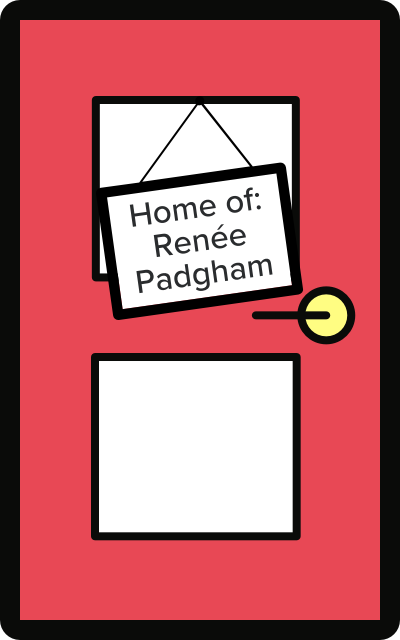
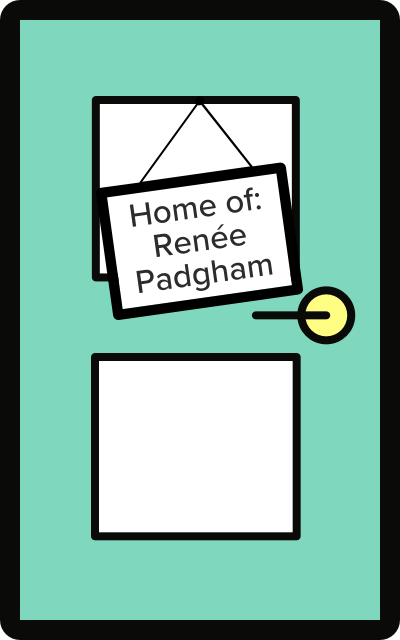
color changes

diff --git a/dist/styles/styles.css b/dist/styles/styles.css
@@ -1,1 +1,1 @@
-.name-sbmt,.name-sbmt:hover,.view-proj{color:#fff}.box,.contact-icons ul li,.rod{display:inline-block}.box:after,.rod:after,.rod:before{content:" "}.door-wrapper img,.header-img img{max-width:100%}.detail-nav ul li h4,.view-proj,.work-nav a{text-transform:uppercase}.detail-nav ul li a:hover,.name-input a,.name-sbmt:hover,.work-nav a:hover,a:hover{text-decoration:none}@font-face{font-family:ProximaNova;src:url(fonts/ProximaNova-Regular.otf)}@font-face{font-family:ProximaNova;font-weight:lighter;src:url(fonts/ProximaNova-Light.otf)}@font-face{font-family:ProximaNova;font-weight:700;src:url(fonts/ProximaNova-Semibold.otf)}@font-face{font-family:ProximaNova;font-weight:bolder;src:url(fonts/ProximaNova-Bold.otf)}@keyframes fadeIn{from{opacity:0}to{opacity:1}}@keyframes fadeOut{from{opacity:1}to{opacity:0}}@keyframes zoomIn{from{transform:scale(1)}to{transform:scale(1.5)}}@keyframes scale{0%{transform:scale(.7);opacity:0}100%{transform:scale(.9);opacity:1}}@keyframes open{0%{transform:scale(1) skew(0)}100%{transform:scale(.05,1) skew(0,-20deg)}}@keyframes pop{0%,65%{transform:rotate(-90deg)}100%{transform:rotate(0)}}.contact-wrapper{margin-top:100px}.address{width:25%;margin:auto;text-align:left}.contact-icons{margin-top:50px;text-align:center}.contact-icons ul{list-style:none;padding:0}.contact-icons ul li{width:30px;height:30px;background-color:#FF9B71;border-radius:50%;margin:0 6px}.contact-icons ul li a{font-size:14px;vertical-align:middle;text-align:center;color:#fff}.contact-icons ul li a i{margin-top:8px}.box{position:relative;background-color:#7FD8BE;width:200px;height:100px;-webkit-border-radius:10% 10% 0 0/100% 100% 0 0;-moz-border-radius:10%/100%;border-radius:10% 10% 0 0/100% 100% 0 0;-moz-border-radius-bottomleft:0;-webkit-background-clip:padding-box;-moz-border-radius-bottomright:0;-moz-background-clip:padding;background-clip:padding-box;margin-top:100px}.box:after,.rod,.rod:after,.rod:before{position:absolute}.box:after{height:90px;width:40px;background-color:#38b993;right:5px;top:5px;-webkit-border-radius:50% 50% 0 0/100% 100% 0 0;-moz-border-radius:50%/100%;border-radius:50% 50% 0 0/100% 100% 0 0;-moz-border-radius-bottomleft:0;-webkit-background-clip:padding-box;-moz-border-radius-bottomright:0;-moz-background-clip:padding;background-clip:padding-box}.rod{height:80px;width:5px;left:50%;bottom:50%;background-color:#E7E5E5;-webkit-transform-origin:bottom center;-moz-transform-origin:bottom center;-o-transform-origin:bottom center;-ms-transform-origin:bottom center;transform-origin:bottom center;-webkit-animation:pop 2s linear;-moz-animation:pop 2s linear;-o-animation:pop 2s linear;animation:pop 2s linear;-webkit-transition:all .2s ease;-moz-transition:all .2s ease;-o-transition:all .2s ease;transition:all .2s ease}.name-input,.name-sbmt{-webkit-animation-name:fadeIn;-moz-animation-name:fadeIn;-ms-animation-name:fadeIn;-o-animation-name:fadeIn;-moz-animation-fill-mode:forwards;-o-animation-fill-mode:forwards}.coming-soon .second img:hover,.coming-soon img,.coming-soon img:hover,.proj-wrapper img,.proj-wrapper img:hover{transition:all .2s ease-in-out}.rod:after{right:100%;top:2%;width:20px;height:16px;background:#FF9B71}.rod:before{bottom:0;border-radius:50%;width:15px;height:15px;background:#E7E5E5;-webkit-transform:translate(-50%,50%);-moz-transform:translate(-50%,50%);-o-transform:translate(-50%,50%);-ms-transform:translate(-50%,50%);transform:translate(-50%,50%)}.design-process{margin:0 auto 100px;font-size:16px;text-align:center}.design-process img{display:block;margin:100px auto 25px;height:100px}.design-process img:first-child{margin:75px auto 25px}.landing-wrapper{margin-top:20vh;text-align:center}.door-wrapper{width:150px;margin:0 auto 25px}.landing-text{display:inline-block;font-size:26px;font-family:proxima-nova,sans-serif;margin:20px auto 30px}.name-input{opacity:0;margin:auto;animation-name:fadeIn;-webkit-animation-duration:4s;-moz-animation-duration:4s;-ms-animation-duration:4s;-o-animation-duration:4s;animation-duration:4s;-webkit-animation-fill-mode:forwards;-ms-animation-fill-mode:forwards;animation-fill-mode:forwards;border-width:0 0 2px;font-size:22px;line-height:30px;text-align:center}.name-sbmt,.show{-ms-animation-fill-mode:forwards}.name-input a{margin:0 5px}.name-input:focus{border-width:0 0 2px;border-color:#E84855;outline:0}.name-sbmt{background-color:#E84855;margin-left:5px;padding:7px 10px;border-radius:2px;animation-name:fadeIn;-webkit-animation-duration:4s;-moz-animation-duration:4s;-ms-animation-duration:4s;-o-animation-duration:4s;animation-duration:4s;-webkit-animation-fill-mode:forwards;animation-fill-mode:forwards}.animatedDoor,.show{-o-animation-fill-mode:forwards}.landing-welcome{opacity:0;visibility:hidden}.show{visibility:visible;-webkit-animation-name:fadeIn;-moz-animation-name:fadeIn;-ms-animation-name:fadeIn;-o-animation-name:fadeIn;animation-name:fadeIn;-webkit-animation-duration:750ms;-moz-animation-duration:750ms;-ms-animation-duration:750ms;-o-animation-duration:750ms;animation-duration:750ms;-webkit-animation-fill-mode:forwards;-moz-animation-fill-mode:forwards;animation-fill-mode:forwards;-webkit-animation-delay:950ms;-moz-animation-delay:950ms;-ms-animation-delay:950ms;-o-animation-delay:950ms;animation-delay:950ms}.animatedDoor{transform-origin:0 50%;-webkit-animation-name:open;-moz-animation-name:open;-ms-animation-name:open;-o-animation-name:open;animation-name:open;-webkit-animation-duration:1.5s;-moz-animation-duration:1.5s;-ms-animation-duration:1.5s;-o-animation-duration:1.5s;animation-duration:1.5s;-webkit-animation-fill-mode:forwards;-moz-animation-fill-mode:forwards;-ms-animation-fill-mode:forwards;animation-fill-mode:forwards;-webkit-animation-delay:1s;-moz-animation-delay:1s;-ms-animation-delay:1s;-o-animation-delay:1s;animation-delay:1s;-webkit-animation-timing-function:ease-in-out;-moz-animation-timing-function:ease-in-out;-ms-animation-timing-function:ease-in-out;-o-animation-timing-function:ease-in-out;animation-timing-function:ease-in-out}.fadeInput,.scale{-webkit-animation-fill-mode:forwards;-moz-animation-fill-mode:forwards;-ms-animation-fill-mode:forwards;-o-animation-fill-mode:forwards}.scale{-webkit-animation-name:zoomIn;-moz-animation-name:zoomIn;-ms-animation-name:zoomIn;-o-animation-name:zoomIn;animation-name:zoomIn;-webkit-animation-duration:750ms;-moz-animation-duration:750ms;-ms-animation-duration:750ms;-o-animation-duration:750ms;animation-duration:750ms;animation-fill-mode:forwards;-webkit-animation-delay:.5s;-moz-animation-delay:.5s;-ms-animation-delay:.5s;-o-animation-delay:.5s;animation-delay:.5s;transform-origin:top}.fadeInput,.fadeOut{-ms-animation-duration:1s;-o-animation-duration:1s}.fadeInput{-webkit-animation-name:fadeOut;-moz-animation-name:fadeOut;-ms-animation-name:fadeOut;-o-animation-name:fadeOut;animation-name:fadeOut;-webkit-animation-duration:1s;-moz-animation-duration:1s;animation-duration:1s;animation-fill-mode:forwards}.fadeOut,.work-nav{-webkit-animation-fill-mode:forwards;-moz-animation-fill-mode:forwards;-ms-animation-fill-mode:forwards;-o-animation-fill-mode:forwards}.fadeOut{-webkit-animation-name:fadeOut;-moz-animation-name:fadeOut;-ms-animation-name:fadeOut;-o-animation-name:fadeOut;animation-name:fadeOut;-webkit-animation-duration:1s;-moz-animation-duration:1s;animation-duration:1s;animation-fill-mode:forwards;-webkit-animation-delay:2s;-moz-animation-delay:2s;-ms-animation-delay:2s;-o-animation-delay:2s;animation-delay:2s}.room-wrapper{text-align:center}.profile-wrap{margin-top:25px;margin-bottom:100px}.profile-wrap .polaroid{margin-top:50px}.profile-wrap .polaroid img{width:300px;box-shadow:0 0 5px #aaa;border-radius:5px}.profile-wrap .bio{margin-top:25px;text-align:center}.profile-wrap .bio img{display:block;margin:50px auto 25px;height:150px}.proj-wrapper{margin-top:75px;margin-bottom:75px}.proj-wrapper img{width:100%;transform:rotate(0);transform-origin:center top}.proj-wrapper img:hover{transform:rotate(5deg);transform-origin:center top}.proj-wrapper h3{font-size:32px;font-weight:lighter;margin:0}.proj-wrapper h4{letter-spacing:1px;margin:10px 0;font-size:16px;font-weight:300;line-height:20px}.proj-wrapper .brief-details{margin-top:19%}.view-proj{background:#6ed8b8;border:none;padding:12px 25px 10px;border-radius:5px;font-weight:500;font-size:14px;margin-top:25px}.coming-soon{text-align:center;margin-top:50px}.coming-soon img{width:100%;transform:rotate(0);transform-origin:center top}.coming-soon img:hover{transform:rotate(5deg);transform-origin:center top}.coming-soon .second img:hover{transform:rotate(-5deg);transform-origin:center top}.coming-soon h3{font-size:32px;font-weight:lighter;margin:0 auto 25px}.work.wrapper{transform-origin:50% 20%}.active{display:block}.inactive{display:none}.detail-brief-wrapper{text-align:center;margin-top:50px}.detail-brief-wrapper .detail-brief .detail-brief-img{margin-top:40px;margin-bottom:40px}.detail-brief-wrapper .detail-brief .detail-brief-img img{width:100%}.detail-brief-wrapper .detail-brief .detail-brief-text{color:#4A4A4A}.detail-brief-wrapper .detail-brief .detail-brief-text h3{font-size:35px;font-weight:lighter;margin:0}.detail-brief-wrapper .detail-brief .detail-brief-text h4{font-weight:lighter;letter-spacing:1px;margin:10px 0}.detail-nav{margin:50px 0}.detail-nav ul{list-style:none;text-align:center;padding:0}.detail-nav ul li:last-child{border-right:none}.detail-nav ul li{display:inline-block;border-right:1px solid #eee;padding:0 50px}.detail-nav ul li img{height:25px;display:block;margin:10px auto;opacity:.7}.detail-nav ul li h4{color:#817F75;opacity:.7;font-weight:300;font-size:14px;margin-top:15px;letter-spacing:.5px}.detail-nav ul li a:hover h4,.detail-nav ul li a:hover img{opacity:1}.detail-body{margin:75px auto 0}.detail-body div{padding:40px 0 0}.detail-body div h2{color:#48639C;font-weight:400;margin-bottom:30px}.detail-body div img{padding:0;box-shadow:0 0 10px #D4D4D4;text-align:center;display:block;margin-top:50px;margin-bottom:50px;max-width:100%}.detail-body div p{font-size:16px;padding-left:0;margin-top:-20px}.detail-body div b{font-size:1.1em}.detail-body div:first-child{padding-top:0}.detail-body div:last-child{padding-bottom:0;margin-bottom:0}.work-nav{background-color:#6ED8B8;padding:20px 0 15px;-webkit-animation-name:fadeIn;-moz-animation-name:fadeIn;-ms-animation-name:fadeIn;-o-animation-name:fadeIn;animation-name:fadeIn;-webkit-animation-duration:2s;-moz-animation-duration:2s;-ms-animation-duration:2s;-o-animation-duration:2s;animation-duration:2s;animation-fill-mode:forwards}.work-nav a{color:#fff;letter-spacing:1px}.work-nav a:hover{cursor:pointer;color:#fff;font-weight:300}.work-nav a:last-child{text-align:right;float:right}.header-img,.intro-text{text-align:center}@media only screen and (min-device-width:768px) and (max-device-width:1024px) and (-webkit-min-device-pixel-ratio:1){.detail-body div{padding:10px 0}.detail-nav{display:none}}@media only screen and (min-device-width:320px) and (max-device-width:480px) and (-webkit-min-device-pixel-ratio:2){.detail-body div{padding:10px 0}}.h1,.h2,.h3,.h4,.h5,.h6,body,h1,h2,h3,h4,h5,h6{font-family:proxima-nova,sans-serif;font-weight:lighter;color:#293132}a:hover,b{font-weight:500}.h4,h4,p{color:#717C89}a,a:hover{color:#ef6f6c}body{margin:0;padding:0}p{font-size:16px}b{color:#293132}a,button{cursor:pointer}.wf-loading body{display:none}.wf-active body{display:inline}.ng-cloak,.x-ng-cloak,[data-ng-cloak],[ng-cloak],[x-ng-cloak]{display:none!important}.navbar-default{background-color:#fff}.navbar-default a:hover{font-weight:300}.navbar-brand img{height:20px}.navbar{margin-bottom:0}.navbar-default .navbar-toggle{border:none}.navbar-default .navbar-toggle:focus,.navbar-default .navbar-toggle:hover{background:#fff}.wrapper{-webkit-animation-name:scale;-moz-animation-name:scale;-ms-animation-name:scale;-o-animation-name:scale;animation-name:scale;-webkit-animation-duration:1s;-moz-animation-duration:1s;-ms-animation-duration:1s;-o-animation-duration:1s;animation-duration:1s;-webkit-animation-fill-mode:forwards;-moz-animation-fill-mode:forwards;-ms-animation-fill-mode:forwards;-o-animation-fill-mode:forwards;animation-fill-mode:forwards;transform-origin:center}.intro-text{margin:50px auto 0}.intro-text p{font-size:18px}
+.name-sbmt,.name-sbmt:hover,.view-proj{color:#fff}.box,.contact-icons ul li,.rod{display:inline-block}.box:after,.rod:after,.rod:before{content:" "}.door-wrapper img,.header-img img{max-width:100%}.detail-nav ul li h4,.view-proj,.work-nav a{text-transform:uppercase}.detail-nav ul li a:hover,.name-input a,.name-sbmt:hover,.work-nav a:hover,a:hover{text-decoration:none}@font-face{font-family:ProximaNova;src:url(fonts/ProximaNova-Regular.otf)}@font-face{font-family:ProximaNova;font-weight:lighter;src:url(fonts/ProximaNova-Light.otf)}@font-face{font-family:ProximaNova;font-weight:700;src:url(fonts/ProximaNova-Semibold.otf)}@font-face{font-family:ProximaNova;font-weight:bolder;src:url(fonts/ProximaNova-Bold.otf)}@keyframes fadeIn{from{opacity:0}to{opacity:1}}@keyframes fadeOut{from{opacity:1}to{opacity:0}}@keyframes zoomIn{from{transform:scale(1)}to{transform:scale(1.5)}}@keyframes scale{0%{transform:scale(.7);opacity:0}100%{transform:scale(.9);opacity:1}}@keyframes open{0%{transform:scale(1) skew(0)}100%{transform:scale(.05,1) skew(0,-20deg)}}@keyframes pop{0%,65%{transform:rotate(-90deg)}100%{transform:rotate(0)}}.contact-wrapper{margin-top:100px}.address{width:25%;margin:auto;text-align:left}.contact-icons{margin-top:50px;text-align:center}.contact-icons ul{list-style:none;padding:0}.contact-icons ul li{width:30px;height:30px;background-color:#FF9B71;border-radius:50%;margin:0 6px}.contact-icons ul li a{font-size:14px;vertical-align:middle;text-align:center;color:#fff}.contact-icons ul li a i{margin-top:8px}.box{position:relative;background-color:#7FD8BE;width:200px;height:100px;-webkit-border-radius:10% 10% 0 0/100% 100% 0 0;-moz-border-radius:10%/100%;border-radius:10% 10% 0 0/100% 100% 0 0;-moz-border-radius-bottomleft:0;-webkit-background-clip:padding-box;-moz-border-radius-bottomright:0;-moz-background-clip:padding;background-clip:padding-box;margin-top:100px}.box:after,.rod,.rod:after,.rod:before{position:absolute}.box:after{height:90px;width:40px;background-color:#38b993;right:5px;top:5px;-webkit-border-radius:50% 50% 0 0/100% 100% 0 0;-moz-border-radius:50%/100%;border-radius:50% 50% 0 0/100% 100% 0 0;-moz-border-radius-bottomleft:0;-webkit-background-clip:padding-box;-moz-border-radius-bottomright:0;-moz-background-clip:padding;background-clip:padding-box}.rod{height:80px;width:5px;left:50%;bottom:50%;background-color:#E7E5E5;-webkit-transform-origin:bottom center;-moz-transform-origin:bottom center;-o-transform-origin:bottom center;-ms-transform-origin:bottom center;transform-origin:bottom center;-webkit-animation:pop 2s linear;-moz-animation:pop 2s linear;-o-animation:pop 2s linear;animation:pop 2s linear;-webkit-transition:all .2s ease;-moz-transition:all .2s ease;-o-transition:all .2s ease;transition:all .2s ease}.name-input,.name-sbmt{-webkit-animation-name:fadeIn;-moz-animation-name:fadeIn;-ms-animation-name:fadeIn;-o-animation-name:fadeIn;-moz-animation-fill-mode:forwards;-o-animation-fill-mode:forwards}.coming-soon .second img:hover,.coming-soon img,.coming-soon img:hover,.proj-wrapper img,.proj-wrapper img:hover{transition:all .2s ease-in-out}.rod:after{right:100%;top:2%;width:20px;height:16px;background:#FF9B71}.rod:before{bottom:0;border-radius:50%;width:15px;height:15px;background:#E7E5E5;-webkit-transform:translate(-50%,50%);-moz-transform:translate(-50%,50%);-o-transform:translate(-50%,50%);-ms-transform:translate(-50%,50%);transform:translate(-50%,50%)}.design-process{margin:0 auto 100px;font-size:16px;text-align:center}.design-process img{display:block;margin:100px auto 25px;height:100px}.design-process img:first-child{margin:75px auto 25px}.landing-wrapper{margin-top:20vh;text-align:center}.door-wrapper{width:150px;margin:0 auto 25px}.landing-text{display:inline-block;font-size:26px;font-family:proxima-nova,sans-serif;margin:20px auto 30px}.name-input{opacity:0;margin:auto;animation-name:fadeIn;-webkit-animation-duration:4s;-moz-animation-duration:4s;-ms-animation-duration:4s;-o-animation-duration:4s;animation-duration:4s;-webkit-animation-fill-mode:forwards;-ms-animation-fill-mode:forwards;animation-fill-mode:forwards;border-width:0 0 2px;font-size:22px;line-height:30px;text-align:center}.name-sbmt,.show{-ms-animation-fill-mode:forwards}.name-input a{margin:0 5px}.name-input:focus{border-width:0 0 2px;border-color:#7FD8BE;outline:0}.name-sbmt{background-color:#7FD8BE;margin-left:5px;padding:7px 10px;border-radius:2px;animation-name:fadeIn;-webkit-animation-duration:4s;-moz-animation-duration:4s;-ms-animation-duration:4s;-o-animation-duration:4s;animation-duration:4s;-webkit-animation-fill-mode:forwards;animation-fill-mode:forwards}.animatedDoor,.show{-o-animation-fill-mode:forwards}.landing-welcome{opacity:0;visibility:hidden}.show{visibility:visible;-webkit-animation-name:fadeIn;-moz-animation-name:fadeIn;-ms-animation-name:fadeIn;-o-animation-name:fadeIn;animation-name:fadeIn;-webkit-animation-duration:750ms;-moz-animation-duration:750ms;-ms-animation-duration:750ms;-o-animation-duration:750ms;animation-duration:750ms;-webkit-animation-fill-mode:forwards;-moz-animation-fill-mode:forwards;animation-fill-mode:forwards;-webkit-animation-delay:950ms;-moz-animation-delay:950ms;-ms-animation-delay:950ms;-o-animation-delay:950ms;animation-delay:950ms}.animatedDoor{transform-origin:0 50%;-webkit-animation-name:open;-moz-animation-name:open;-ms-animation-name:open;-o-animation-name:open;animation-name:open;-webkit-animation-duration:1.5s;-moz-animation-duration:1.5s;-ms-animation-duration:1.5s;-o-animation-duration:1.5s;animation-duration:1.5s;-webkit-animation-fill-mode:forwards;-moz-animation-fill-mode:forwards;-ms-animation-fill-mode:forwards;animation-fill-mode:forwards;-webkit-animation-delay:1s;-moz-animation-delay:1s;-ms-animation-delay:1s;-o-animation-delay:1s;animation-delay:1s;-webkit-animation-timing-function:ease-in-out;-moz-animation-timing-function:ease-in-out;-ms-animation-timing-function:ease-in-out;-o-animation-timing-function:ease-in-out;animation-timing-function:ease-in-out}.fadeInput,.scale{-webkit-animation-fill-mode:forwards;-moz-animation-fill-mode:forwards;-ms-animation-fill-mode:forwards;-o-animation-fill-mode:forwards}.scale{-webkit-animation-name:zoomIn;-moz-animation-name:zoomIn;-ms-animation-name:zoomIn;-o-animation-name:zoomIn;animation-name:zoomIn;-webkit-animation-duration:750ms;-moz-animation-duration:750ms;-ms-animation-duration:750ms;-o-animation-duration:750ms;animation-duration:750ms;animation-fill-mode:forwards;-webkit-animation-delay:.5s;-moz-animation-delay:.5s;-ms-animation-delay:.5s;-o-animation-delay:.5s;animation-delay:.5s;transform-origin:top}.fadeInput,.fadeOut{-ms-animation-duration:1s;-o-animation-duration:1s}.fadeInput{-webkit-animation-name:fadeOut;-moz-animation-name:fadeOut;-ms-animation-name:fadeOut;-o-animation-name:fadeOut;animation-name:fadeOut;-webkit-animation-duration:1s;-moz-animation-duration:1s;animation-duration:1s;animation-fill-mode:forwards}.fadeOut,.work-nav{-webkit-animation-fill-mode:forwards;-moz-animation-fill-mode:forwards;-ms-animation-fill-mode:forwards;-o-animation-fill-mode:forwards}.fadeOut{-webkit-animation-name:fadeOut;-moz-animation-name:fadeOut;-ms-animation-name:fadeOut;-o-animation-name:fadeOut;animation-name:fadeOut;-webkit-animation-duration:1s;-moz-animation-duration:1s;animation-duration:1s;animation-fill-mode:forwards;-webkit-animation-delay:2s;-moz-animation-delay:2s;-ms-animation-delay:2s;-o-animation-delay:2s;animation-delay:2s}.room-wrapper{text-align:center}.profile-wrap{margin-top:25px;margin-bottom:100px}.profile-wrap .polaroid{margin-top:50px}.profile-wrap .polaroid img{width:300px;box-shadow:0 0 5px #aaa;border-radius:5px}.profile-wrap .bio{margin-top:25px;text-align:center}.profile-wrap .bio img{display:block;margin:50px auto 25px;height:150px}.proj-wrapper{margin-top:75px;margin-bottom:75px}.proj-wrapper img{width:100%;transform:rotate(0);transform-origin:center top}.proj-wrapper img:hover{transform:rotate(5deg);transform-origin:center top}.proj-wrapper h3{font-size:32px;font-weight:lighter;margin:0}.proj-wrapper h4{letter-spacing:1px;margin:10px 0;font-size:16px;font-weight:300;line-height:20px}.proj-wrapper .brief-details{margin-top:19%}.view-proj{background:#6ed8b8;border:none;padding:12px 25px 10px;border-radius:5px;font-weight:500;font-size:14px;margin-top:25px}.coming-soon{text-align:center;margin-top:50px}.coming-soon img{width:100%;transform:rotate(0);transform-origin:center top}.coming-soon img:hover{transform:rotate(5deg);transform-origin:center top}.coming-soon .second img:hover{transform:rotate(-5deg);transform-origin:center top}.coming-soon h3{font-size:32px;font-weight:lighter;margin:0 auto 25px}.work.wrapper{transform-origin:50% 20%}.active{display:block}.inactive{display:none}.detail-brief-wrapper{text-align:center;margin-top:50px}.detail-brief-wrapper .detail-brief .detail-brief-img{margin-top:40px;margin-bottom:40px}.detail-brief-wrapper .detail-brief .detail-brief-img img{width:100%}.detail-brief-wrapper .detail-brief .detail-brief-text{color:#4A4A4A}.detail-brief-wrapper .detail-brief .detail-brief-text h3{font-size:35px;font-weight:lighter;margin:0}.detail-brief-wrapper .detail-brief .detail-brief-text h4{font-weight:lighter;letter-spacing:1px;margin:10px 0}.detail-nav{margin:50px 0}.detail-nav ul{list-style:none;text-align:center;padding:0}.detail-nav ul li:last-child{border-right:none}.detail-nav ul li{display:inline-block;border-right:1px solid #eee;padding:0 50px}.detail-nav ul li img{height:25px;display:block;margin:10px auto;opacity:.7}.detail-nav ul li h4{color:#817F75;opacity:.7;font-weight:300;font-size:14px;margin-top:15px;letter-spacing:.5px}.detail-nav ul li a:hover h4,.detail-nav ul li a:hover img{opacity:1}.detail-body{margin:75px auto 0}.detail-body div{padding:40px 0 0}.detail-body div h2{color:#48639C;font-weight:400;margin-bottom:30px}.detail-body div img{padding:0;box-shadow:0 0 10px #D4D4D4;text-align:center;display:block;margin-top:50px;margin-bottom:50px;max-width:100%}.detail-body div p{font-size:16px;padding-left:0;margin-top:-20px}.detail-body div b{font-size:1.1em}.detail-body div:first-child{padding-top:0}.detail-body div:last-child{padding-bottom:0;margin-bottom:0}.work-nav{background-color:#6ED8B8;padding:20px 0 15px;-webkit-animation-name:fadeIn;-moz-animation-name:fadeIn;-ms-animation-name:fadeIn;-o-animation-name:fadeIn;animation-name:fadeIn;-webkit-animation-duration:2s;-moz-animation-duration:2s;-ms-animation-duration:2s;-o-animation-duration:2s;animation-duration:2s;animation-fill-mode:forwards}.work-nav a{color:#fff;letter-spacing:1px}.work-nav a:hover{cursor:pointer;color:#fff;font-weight:300}.work-nav a:last-child{text-align:right;float:right}.header-img,.intro-text{text-align:center}@media only screen and (min-device-width:768px) and (max-device-width:1024px) and (-webkit-min-device-pixel-ratio:1){.detail-body div{padding:10px 0}.detail-nav{display:none}}@media only screen and (min-device-width:320px) and (max-device-width:480px) and (-webkit-min-device-pixel-ratio:2){.detail-body div{padding:10px 0}}.h1,.h2,.h3,.h4,.h5,.h6,body,h1,h2,h3,h4,h5,h6{font-family:proxima-nova,sans-serif;font-weight:lighter;color:#293132}a:hover,b{font-weight:500}.h4,h4,p{color:#717C89}a,a:hover{color:#ef6f6c}body{margin:0;padding:0}p{font-size:16px}b{color:#293132}a,button{cursor:pointer}.wf-loading body{display:none}.wf-active body{display:inline}.ng-cloak,.x-ng-cloak,[data-ng-cloak],[ng-cloak],[x-ng-cloak]{display:none!important}.navbar-default{background-color:#fff}.navbar-default a:hover{font-weight:300}.navbar-brand img{height:20px}.navbar{margin-bottom:0}.navbar-default .navbar-toggle{border:none}.navbar-default .navbar-toggle:focus,.navbar-default .navbar-toggle:hover{background:#fff}.wrapper{-webkit-animation-name:scale;-moz-animation-name:scale;-ms-animation-name:scale;-o-animation-name:scale;animation-name:scale;-webkit-animation-duration:1s;-moz-animation-duration:1s;-ms-animation-duration:1s;-o-animation-duration:1s;animation-duration:1s;-webkit-animation-fill-mode:forwards;-moz-animation-fill-mode:forwards;-ms-animation-fill-mode:forwards;-o-animation-fill-mode:forwards;animation-fill-mode:forwards;transform-origin:center}.intro-text{margin:50px auto 0}.intro-text p{font-size:18px}

diff --git a/styles/styles.css b/styles/styles.css
@@ -224,12 +224,12 @@
 
 .name-input:focus {
   border-width: 0 0 2px 0;
-  border-color: #E84855;
+  border-color: #7FD8BE;
   outline: none; }
 
 .name-sbmt {
   color: #fff;
-  background-color: #E84855;
+  background-color: #7FD8BE;
   margin-left: 5px;
   padding: 7px 10px;
   border-radius: 2px;

diff --git a/styles/_landing.scss b/styles/_landing.scss
@@ -32,12 +32,12 @@
 }
 .name-input:focus {
   border-width: 0 0 2px 0;
-  border-color: #E84855;
+  border-color: #7FD8BE;
   outline: none;
 }
 .name-sbmt {
   color: #fff;
-  background-color: #E84855;
+  background-color: #7FD8BE;
   margin-left: 5px;
   padding: 7px 10px;
   border-radius: 2px;
